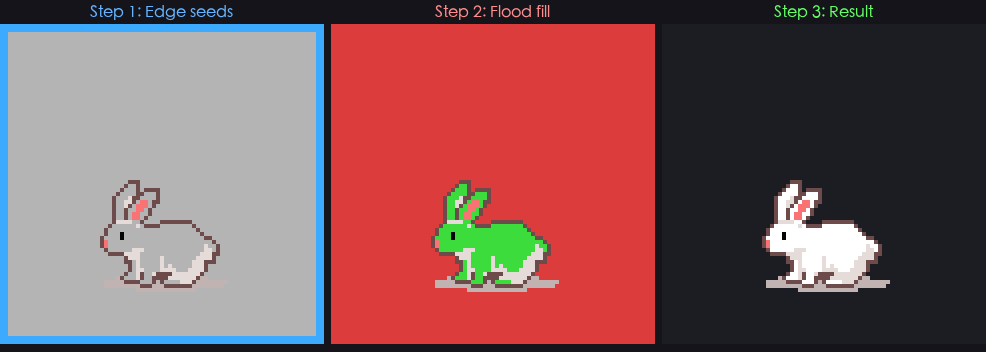
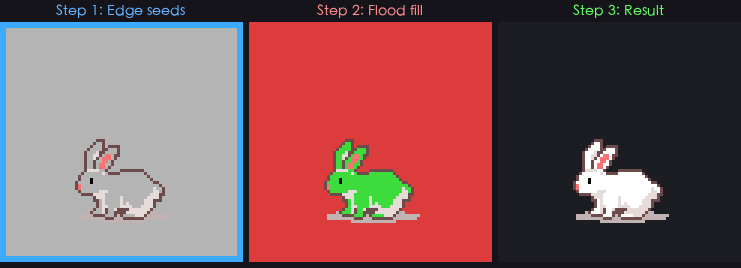
docs: resize comparison (872px) and algorithm (741px) for balance

diff --git a/README.md b/README.md
@@ -8,7 +8,7 @@ Edge flood-fill transparency for pixel art. Removes background colour without cu
 
 Traditional "remove white background" destroys white sprite details (fur, eyes, clothing).
 
-<p align="center"><img src="docs/comparison.png" width="692" alt="Before vs After"></p>
+<p align="center"><img src="docs/comparison.png" width="780" alt="Before vs After"></p>
 
 PixelFlood only floods from the **edges**. The outline acts as a barrier — interior white is preserved.
 
@@ -16,7 +16,7 @@ PixelFlood only floods from the **edges**. The outline acts as a barrier — int
 
 ## Algorithm
 
-<p align="center"><img src="docs/algorithm.png" width="800" alt="How it works"></p>
+<p align="center"><img src="docs/algorithm.png" width="700" alt="How it works"></p>
 
 | Step | Description |
 |------|-------------|